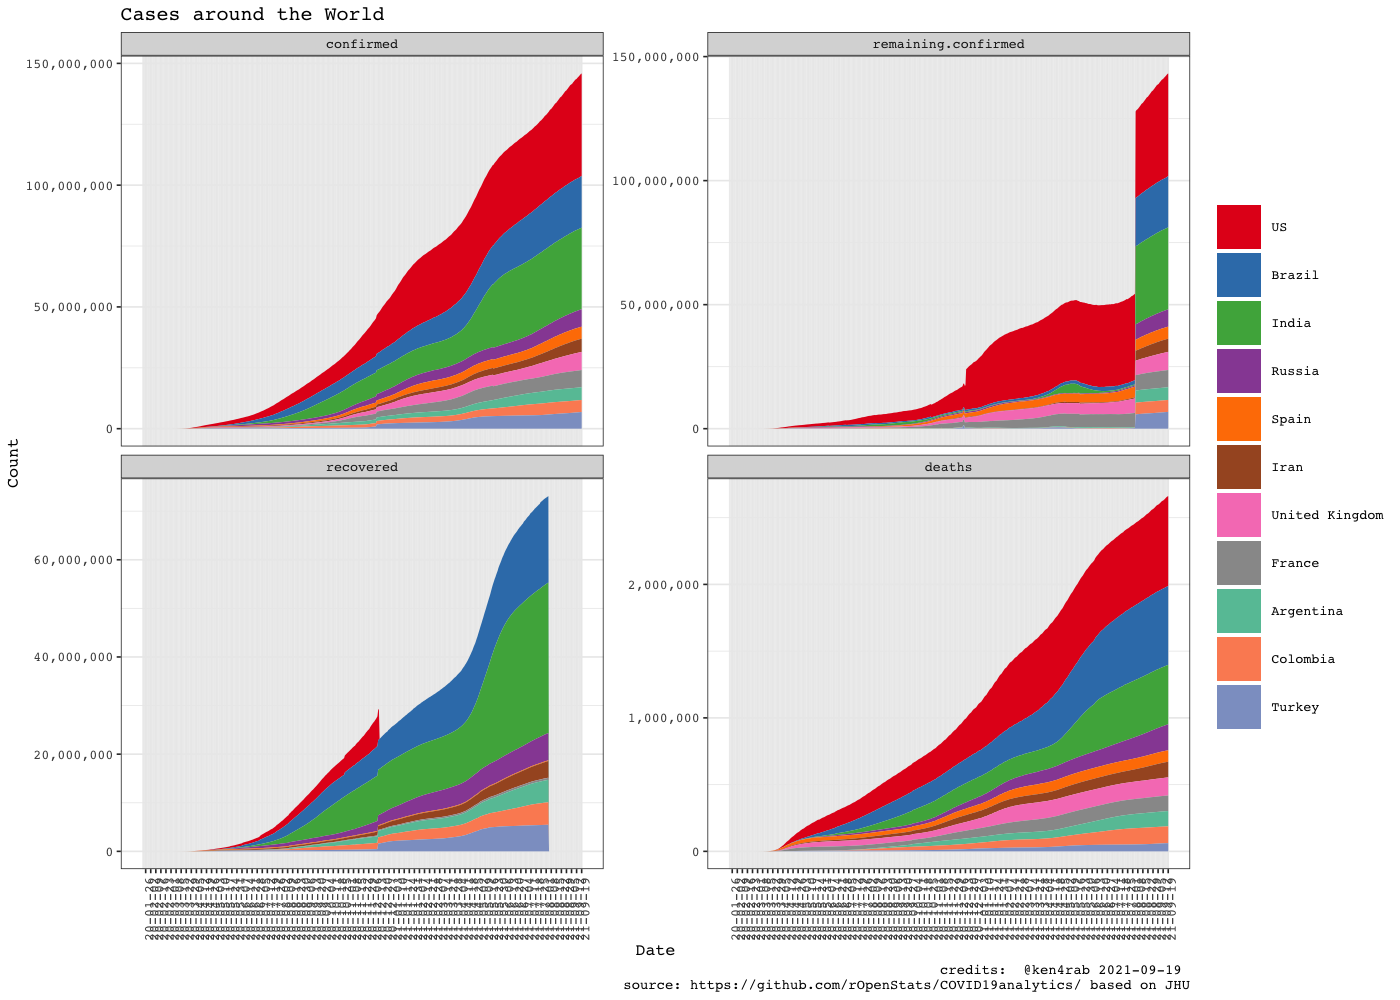
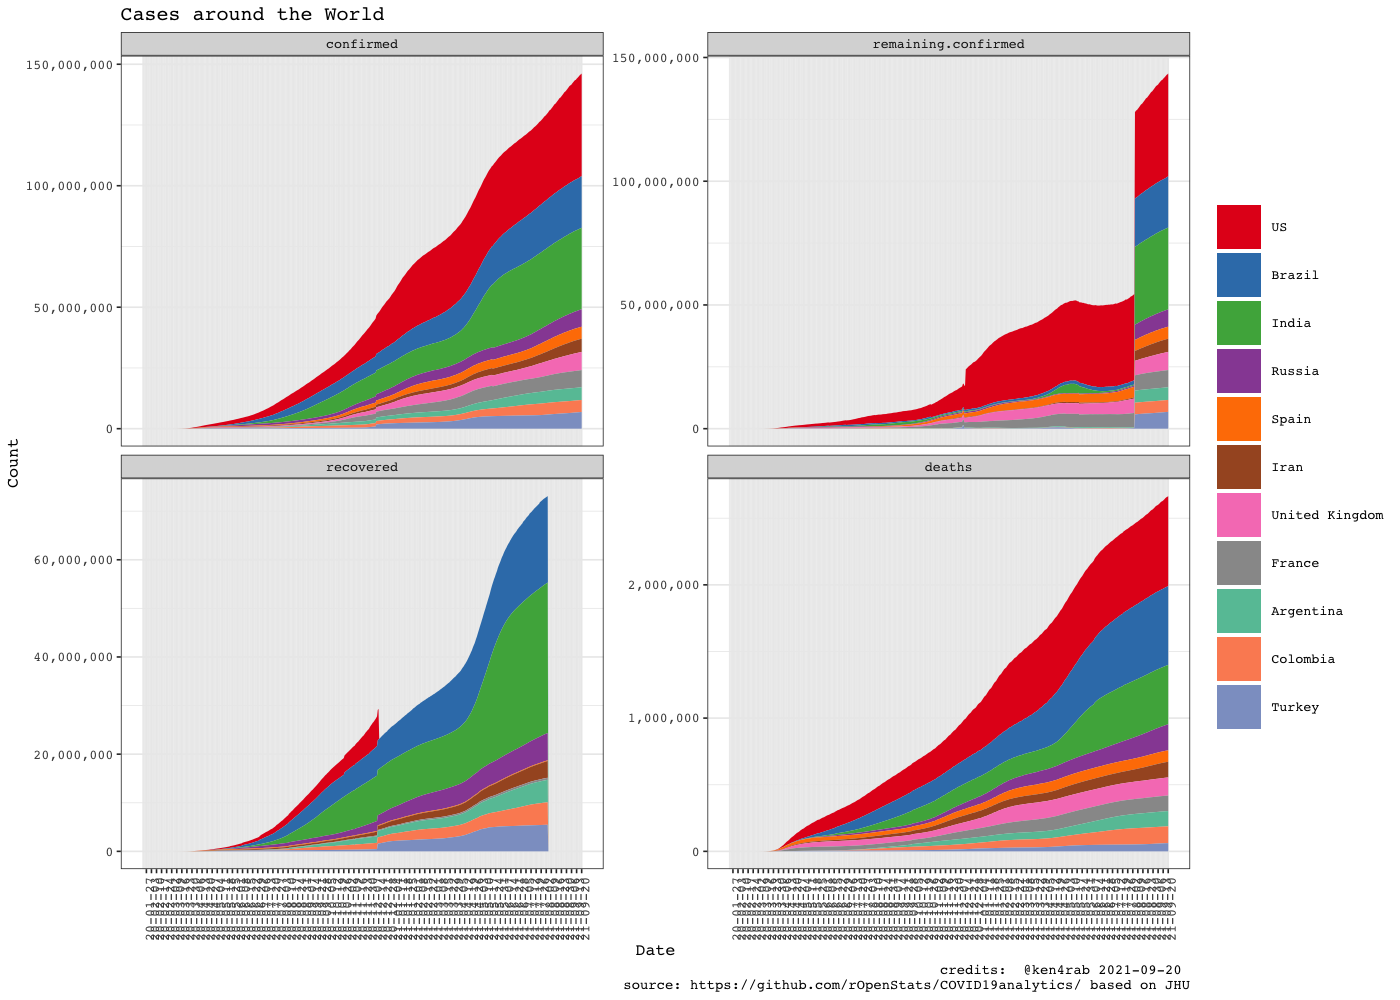
Updated up to 210920

diff --git a/README.md b/README.md
@@ -107,33 +107,33 @@ data.processor <- COVID19DataProcessor$new(provider = "JohnsHopkingsUniversity",
 
 #dummy <- data.processor$preprocess() is setupData + transform is the preprocess made by data provider
 dummy <- data.processor$setupData()
-#> INFO  [20:15:54.710]  {stage: `processor-setup`}
-#> INFO  [20:15:54.823] Checking required downloaded  {downloaded.max.date: `2021-09-18`, daily.update.time: `21:00:00`, current.datetime: `2021-09-20 20:15:54`, download.flag: `TRUE`}
-#> INFO  [20:15:57.329] Checking required downloaded  {downloaded.max.date: `2021-09-18`, daily.update.time: `21:00:00`, current.datetime: `2021-09-20 20:15:57`, download.flag: `TRUE`}
-#> INFO  [20:15:58.921] Checking required downloaded  {downloaded.max.date: `2021-09-18`, daily.update.time: `21:00:00`, current.datetime: `2021-09-20 20:15:58`, download.flag: `TRUE`}
-#> INFO  [20:16:00.640]  {stage: `data loaded`}
-#> INFO  [20:16:00.642]  {stage: `data-setup`}
+#> INFO  [11:46:36.736]  {stage: `processor-setup`}
+#> INFO  [11:46:36.862] Checking required downloaded  {downloaded.max.date: `2021-09-19`, daily.update.time: `21:00:00`, current.datetime: `2021-09-21 11:46:36`, download.flag: `TRUE`}
+#> INFO  [11:46:39.427] Checking required downloaded  {downloaded.max.date: `2021-09-19`, daily.update.time: `21:00:00`, current.datetime: `2021-09-21 11:46:39`, download.flag: `TRUE`}
+#> INFO  [11:46:41.469] Checking required downloaded  {downloaded.max.date: `2021-09-19`, daily.update.time: `21:00:00`, current.datetime: `2021-09-21 11:46:41`, download.flag: `TRUE`}
+#> INFO  [11:46:43.914]  {stage: `data loaded`}
+#> INFO  [11:46:43.916]  {stage: `data-setup`}
 dummy <- data.processor$transform()
-#> INFO  [20:16:00.645] Executing transform 
-#> INFO  [20:16:00.647] Executing consolidate 
-#> INFO  [20:16:21.515]  {stage: `consolidated`}
-#> INFO  [20:16:21.517] Executing standarize 
-#> INFO  [20:16:23.950] gathering DataModel 
-#> INFO  [20:16:23.952]  {stage: `datamodel-setup`}
+#> INFO  [11:46:43.919] Executing transform 
+#> INFO  [11:46:43.920] Executing consolidate 
+#> INFO  [11:47:03.088]  {stage: `consolidated`}
+#> INFO  [11:47:03.090] Executing standarize 
+#> INFO  [11:47:05.641] gathering DataModel 
+#> INFO  [11:47:05.643]  {stage: `datamodel-setup`}
 # Curate is the process made by missing values method
 dummy <- data.processor$curate()
-#> INFO  [20:16:23.960]  {stage: `loading-aggregated-data-model`}
+#> INFO  [11:47:05.649]  {stage: `loading-aggregated-data-model`}
 #> Warning in countrycode_convert(sourcevar = sourcevar, origin = origin, destination = dest, : Some values were not matched unambiguously: Micronesia
 #> Warning in countrycode_convert(sourcevar = sourcevar, origin = origin, destination = dest, : Some values were not matched unambiguously: MS Zaandam
 #> Warning in countrycode_convert(sourcevar = sourcevar, origin = origin, destination = dest, : Some values were not matched unambiguously: Summer Olympics 2020
-#> INFO  [20:16:31.008]  {stage: `calculating-rates`}
-#> INFO  [20:16:31.217]  {stage: `making-data-comparison`}
-#> INFO  [20:16:39.583]  {stage: `applying-missing-values-method`}
-#> INFO  [20:16:39.586]  {stage: `Starting first imputation`}
-#> INFO  [20:16:39.621]  {stage: `calculating-rates`}
-#> INFO  [20:16:39.850]  {stage: `making-data-comparison-2`}
-#> INFO  [20:16:48.432]  {stage: `calculating-top-countries`}
-#> INFO  [20:16:48.451]  {stage: `curated`}
+#> INFO  [11:47:12.500]  {stage: `calculating-rates`}
+#> INFO  [11:47:12.739]  {stage: `making-data-comparison`}
+#> INFO  [11:47:21.076]  {stage: `applying-missing-values-method`}
+#> INFO  [11:47:21.079]  {stage: `Starting first imputation`}
+#> INFO  [11:47:21.122]  {stage: `calculating-rates`}
+#> INFO  [11:47:21.348]  {stage: `making-data-comparison-2`}
+#> INFO  [11:47:30.445]  {stage: `calculating-top-countries`}
+#> INFO  [11:47:30.467]  {stage: `curated`}
 current.date <- max(data.processor$getData()$date)
 
 rg <- ReportGeneratorEnhanced$new(data.processor)
@@ -159,16 +159,16 @@ kable((data.processor$getData() %>%
 
 | country        | date       | rate.inc.daily | confirmed.inc | confirmed | deaths | deaths.inc |
 |:---------------|:-----------|---------------:|--------------:|----------:|-------:|-----------:|
-| US             | 2021-09-19 |         0.0009 |         36794 |  42087432 | 673763 |        291 |
-| India          | 2021-09-19 |         0.0009 |         30256 |  33478419 | 445133 |        295 |
-| United Kingdom | 2021-09-19 |         0.0039 |         29298 |   7464791 | 135539 |         61 |
-| Turkey         | 2021-09-19 |         0.0039 |         26398 |   6847229 |  61574 |        213 |
-| Russia         | 2021-09-19 |         0.0028 |         19825 |   7170069 | 194671 |        780 |
-| Philippines    | 2021-09-19 |         0.0082 |         19199 |   2366749 |  36788 |        205 |
-| Mexico         | 2021-09-19 |         0.0047 |         16694 |   3569677 | 271503 |        965 |
-| Iran           | 2021-09-19 |         0.0030 |         15975 |   5424835 | 117182 |        391 |
-| Malaysia       | 2021-09-19 |         0.0072 |         14954 |   2097830 |  23443 |        376 |
-| Thailand       | 2021-09-19 |         0.0093 |         13576 |   1476477 |  15363 |        117 |
+| US             | 2021-09-20 |         0.0048 |        201648 |  42289819 | 676076 |       2302 |
+| United Kingdom | 2021-09-20 |         0.0048 |         35943 |   7500734 | 135589 |         50 |
+| Turkey         | 2021-09-20 |         0.0040 |         27688 |   6874917 |  61805 |        231 |
+| India          | 2021-09-20 |         0.0008 |         26115 |  33504534 | 445385 |        252 |
+| Russia         | 2021-09-20 |         0.0027 |         19376 |   7189445 | 195438 |        767 |
+| Philippines    | 2021-09-20 |         0.0080 |         18867 |   2385616 |  36934 |        146 |
+| Iran           | 2021-09-20 |         0.0032 |         17397 |   5442232 | 117526 |        344 |
+| Malaysia       | 2021-09-20 |         0.0068 |         14345 |   2112175 |  23744 |        301 |
+| Thailand       | 2021-09-20 |         0.0086 |         12709 |   1489186 |  15469 |        106 |
+| Vietnam        | 2021-09-20 |         0.0126 |          8681 |    695744 |  17305 |        215 |
 
 ``` r
 # Top 10 daily deaths increment
@@ -178,18 +178,18 @@ kable((data.processor$getData() %>%
   arrange(desc(deaths.inc)))[1:10,])
 ```
 
-| country     | date       | rate.inc.daily | confirmed.inc | confirmed | deaths | deaths.inc |
-|:------------|:-----------|---------------:|--------------:|----------:|-------:|-----------:|
-| Mexico      | 2021-09-19 |         0.0047 |         16694 |   3569677 | 271503 |        965 |
-| Russia      | 2021-09-19 |         0.0028 |         19825 |   7170069 | 194671 |        780 |
-| Iran        | 2021-09-19 |         0.0030 |         15975 |   5424835 | 117182 |        391 |
-| Malaysia    | 2021-09-19 |         0.0072 |         14954 |   2097830 |  23443 |        376 |
-| India       | 2021-09-19 |         0.0009 |         30256 |  33478419 | 445133 |        295 |
-| US          | 2021-09-19 |         0.0009 |         36794 |  42087432 | 673763 |        291 |
-| Brazil      | 2021-09-19 |         0.0004 |          9458 |  21239783 | 590752 |        244 |
-| Vietnam     | 2021-09-19 |         0.0148 |         10040 |    687063 |  17090 |        233 |
-| Turkey      | 2021-09-19 |         0.0039 |         26398 |   6847229 |  61574 |        213 |
-| Philippines | 2021-09-19 |         0.0082 |         19199 |   2366749 |  36788 |        205 |
+| country    | date       | rate.inc.daily | confirmed.inc | confirmed | deaths | deaths.inc |
+|:-----------|:-----------|---------------:|--------------:|----------:|-------:|-----------:|
+| US         | 2021-09-20 |         0.0048 |        201648 |  42289819 | 676076 |       2302 |
+| Russia     | 2021-09-20 |         0.0027 |         19376 |   7189445 | 195438 |        767 |
+| Kazakhstan | 2021-09-20 |         0.0023 |          2111 |    939065 |  15503 |        472 |
+| Iran       | 2021-09-20 |         0.0032 |         17397 |   5442232 | 117526 |        344 |
+| Malaysia   | 2021-09-20 |         0.0068 |         14345 |   2112175 |  23744 |        301 |
+| Mexico     | 2021-09-20 |         0.0009 |          3367 |   3573044 | 271765 |        262 |
+| India      | 2021-09-20 |         0.0008 |         26115 |  33504534 | 445385 |        252 |
+| Turkey     | 2021-09-20 |         0.0040 |         27688 |   6874917 |  61805 |        231 |
+| Vietnam    | 2021-09-20 |         0.0126 |          8681 |    695744 |  17305 |        215 |
+| Brazil     | 2021-09-20 |         0.0004 |          7884 |  21247667 | 590955 |        203 |
 
 ``` r
 rg$ggplotTopCountriesStackedBarDailyInc(included.countries = latam.countries, countries.text = "Latam countries")
@@ -212,7 +212,7 @@ rc$ggplotComparisonExponentialGrowth(included.countries = latam.countries, count
                                      field = "remaining.confirmed", y.label = "Active cases", min.cases = 100)
 #> Warning in self$trans$transform(x): NaNs produced
 #> Warning: Transformation introduced infinite values in continuous y-axis
-#> Warning: ggrepel: 6 unlabeled data points (too many overlaps). Consider
+#> Warning: ggrepel: 7 unlabeled data points (too many overlaps). Consider
 #> increasing max.overlaps
 ```
 
@@ -251,7 +251,7 @@ rg$ggplotCountriesLines(included.countries = latam.countries, countries.text = "
 #> Warning: Transformation introduced infinite values in continuous y-axis
 #> Warning in self$trans$transform(x): NaNs produced
 #> Warning: Transformation introduced infinite values in continuous y-axis
-#> Warning: Removed 4 rows containing missing values (geom_point).
+#> Warning: Removed 5 rows containing missing values (geom_point).
 #> Warning: Removed 144 row(s) containing missing values (geom_path).
 ```
 
